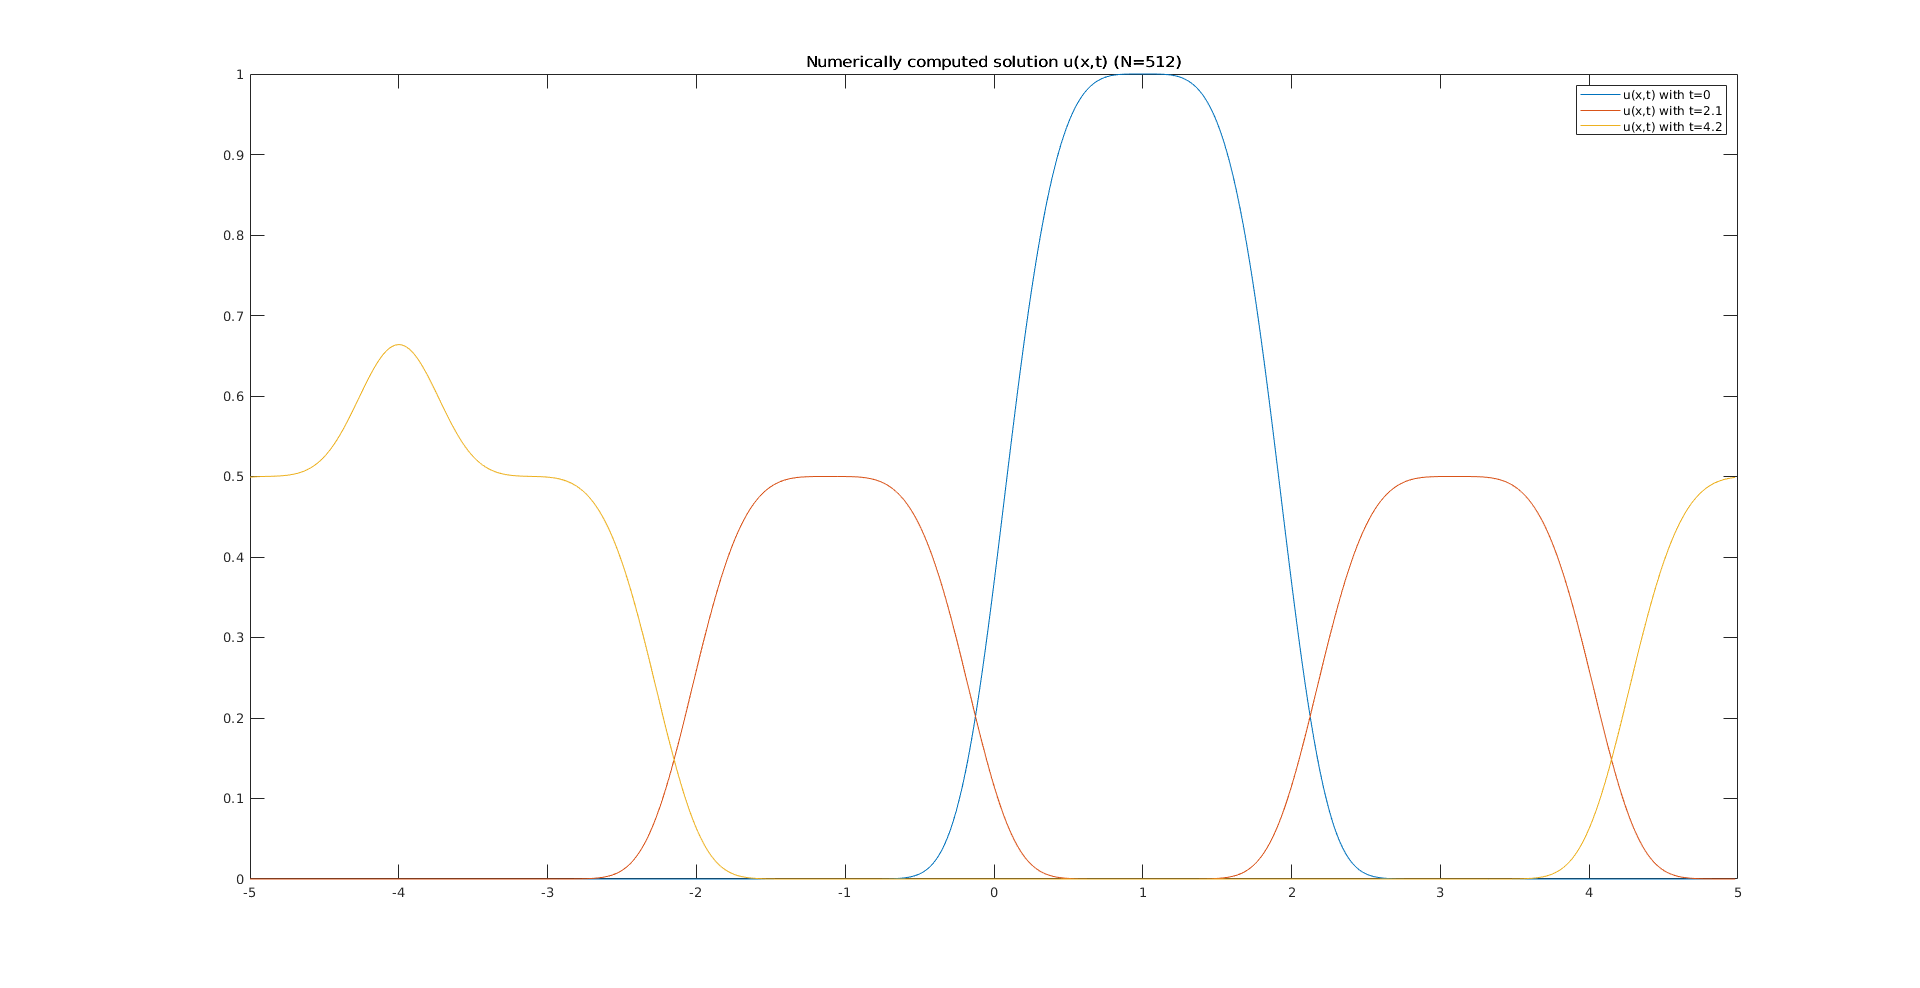
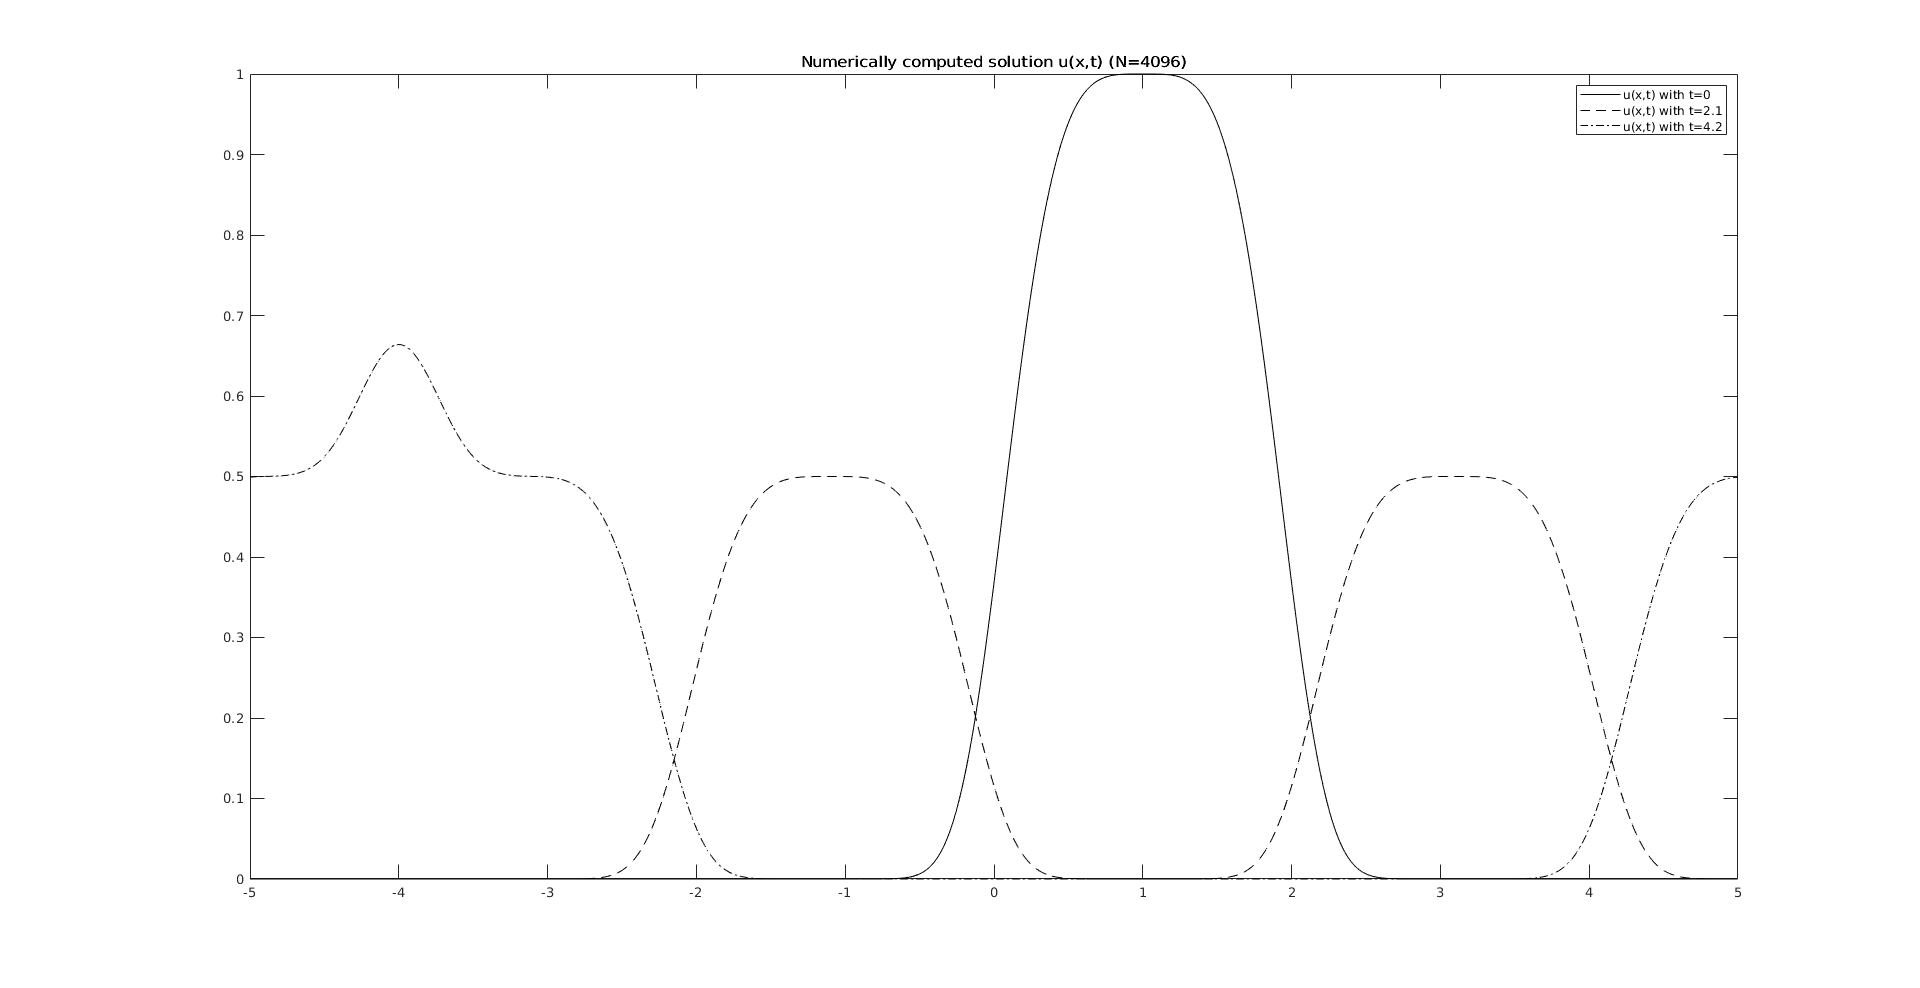
Make sure plot for ps6 part b is black and white

Changed region(s): [[0.4375, 0.0607, 0.625, 0.0911]]

diff --git a/ps6/ps6_b.m b/ps6/ps6_b.m
@@ -1,7 +1,7 @@
 % Parameters
 l = 5;
 c = 1;
-N = 2^9;
+N = 2^12;
 
 % Space and time values
 h = 2*l/N;
@@ -22,6 +22,6 @@ u_approx = fftshift(ifft(u_coeff, [], 2, 'symmetric'), 2);
 
 % Plot
 figure();
-plot(xs, u_approx(1, :), xs, u_approx(2, :), xs, u_approx(3, :));
+plot(xs, u_approx(1, :), 'k', xs, u_approx(2, :), 'k--', xs, u_approx(3, :), 'k-.');
 legend(strcat('u(x,t) with t=', string(ts)));
 title(strcat('Numerically computed solution u(x,t) (N=', num2str(N), ')'));
